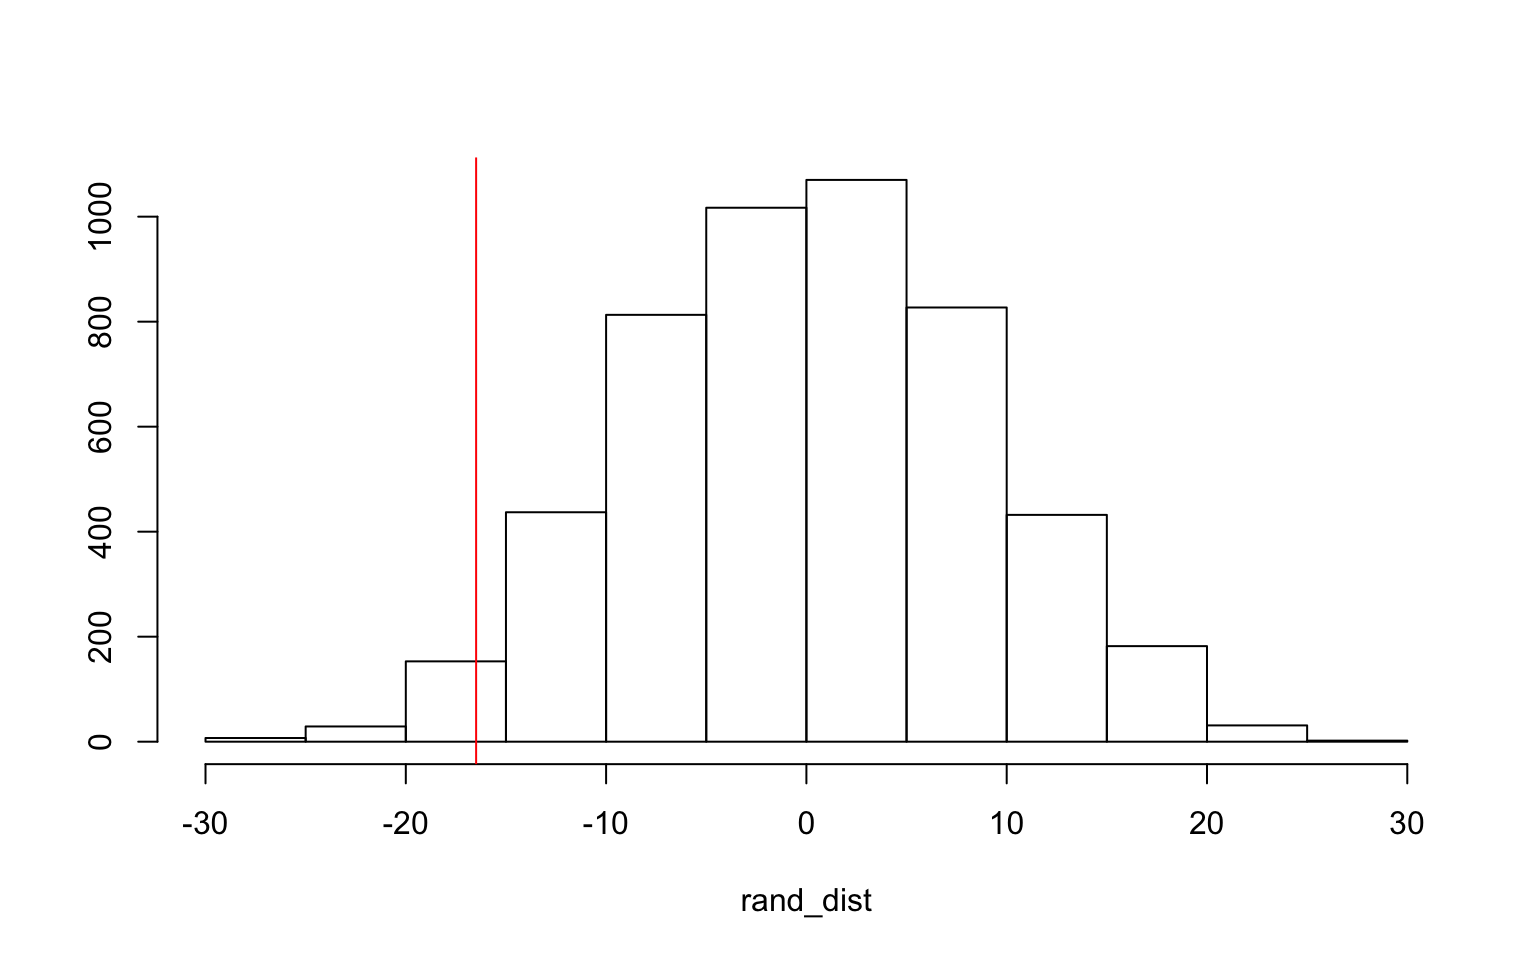
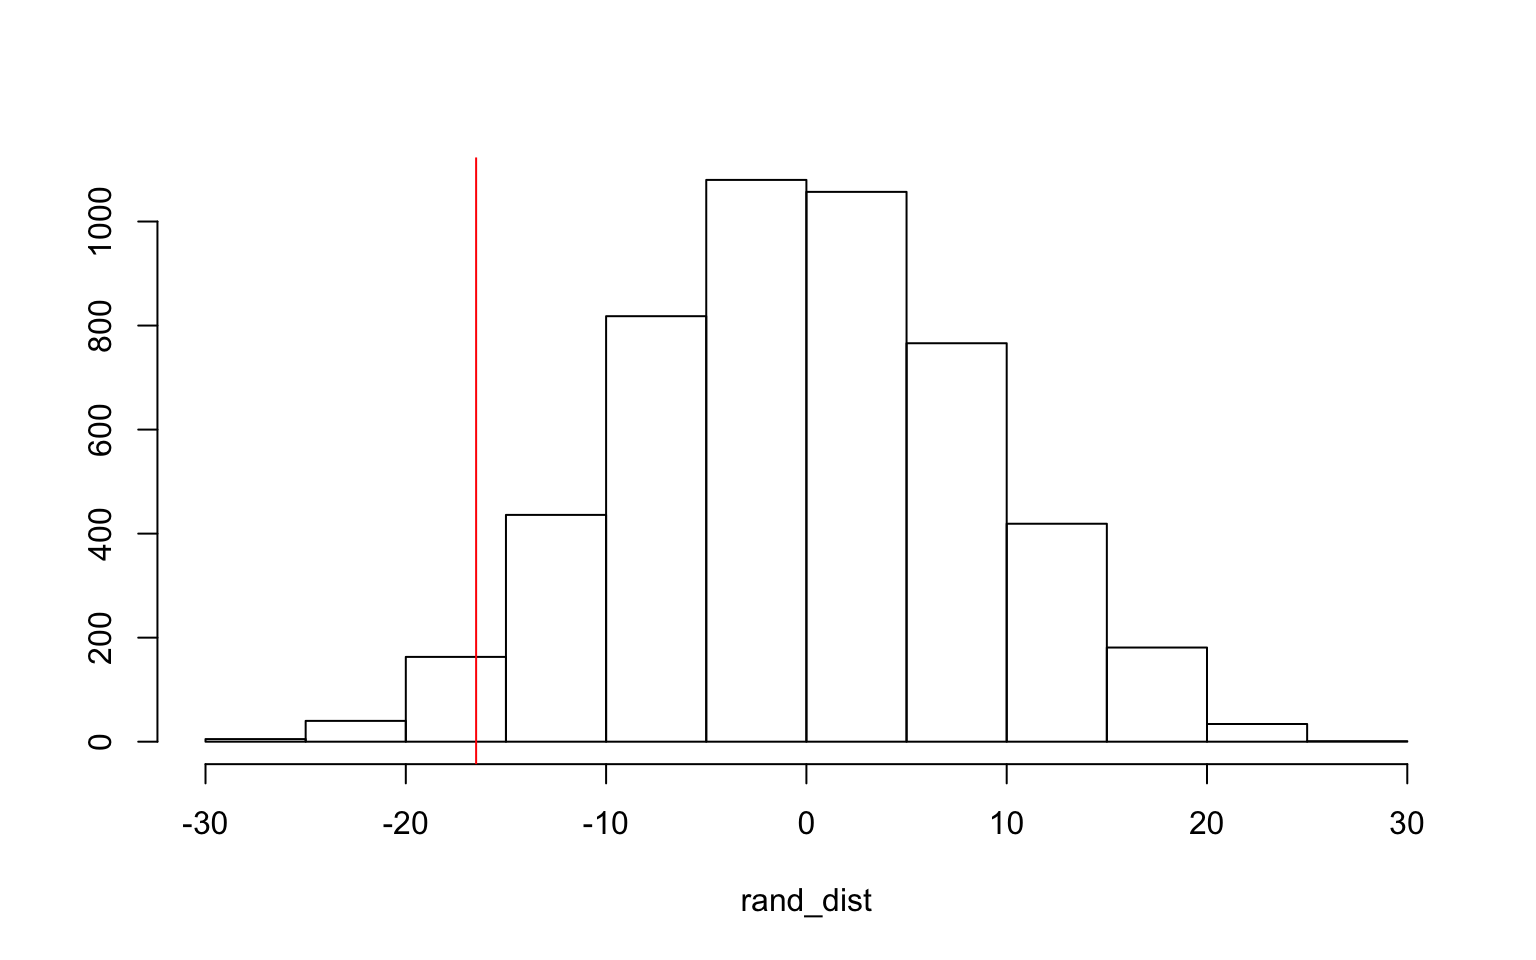
even more

diff --git a/public/project22/index.html b/public/project22/index.html
@@ -74,25 +74,7 @@
 
 <div id="section" class="section level2">
 <h2></h2>
-</div>
-<div id="modeling" class="section level1">
-<h1>Modeling</h1>
-<div id="instructions" class="section level2">
-<h2>Instructions</h2>
-<p>A knitted R Markdown document (as a PDF) and the raw R Markdown file (as .Rmd) should both be submitted to Canvas by 11:59pm on 5/1/2020. These two documents will be graded jointly, so they must be consistent (i.e., don’t change the R Markdown file without also updating the knitted document). Knit an html copy too, for later! In the .Rmd file for Project 2, you can copy the first code-chunk into your project .Rmd file to get better formatting. Notice that you can adjust the opts_chunk$set(…) above to set certain parameters if necessary to make the knitting cleaner (you can globally set the size of all plots, etc). You can copy the set-up chunk in Project2.Rmd: I have gone ahead and set a few for you (such as disabling warnings and package-loading messges when knitting)!</p>
-<p>Like before, I envision your written text forming something of a narrative structure around your code/output. All results presented must have corresponding code. Any answers/results/plots etc. given without the corresponding R code that generated the result will not be graded. Furthermore, all code contained in your final project document should work properly. Please do not include any extraneous code or code which produces error messages. (Code which produces warnings is acceptable, as long as you understand what the warnings mean).</p>
-</div>
-<div id="find-data" class="section level2">
-<h2>Find data:</h2>
-<p>Find one dataset with at least 5 variables that wish to use to build models. At least one should be categorical (with 2-5 groups) and at least two should be numeric. Ideally, one of your variables will be binary (if not, you will need to create one by discretizing a numeric, which is workable but less than ideal). You will need a minimum of 40 observations (<em>at least</em> 10 observations for every explanatory variable you have, ideally 20+ observations/variable).</p>
-<p>It is perfectly fine to use either dataset (or the merged dataset, or a subset of your variables) from Project 1. However, you could also diversify your portfolio a bit by choosing a different dataset to work with (particularly if the variables did not reveal interesting associations in Project 1). The only requirement/restriction is that you may not use data from any examples we have done in class or lab. It would be a good idea to pick more cohesive data this time around (i.e., variables that you actually thing might have a relationship you would want to test). Think more along the lines of your Biostats project.</p>
-<p>Again, you can use data from anywhere you want (see bottom for resources)! If you want a quick way to see whether a built-in (R) dataset has binary and/or character (i.e., categorical) variables, check out this list: <a href="https://vincentarelbundock.github.io/Rdatasets/datasets.html" class="uri">https://vincentarelbundock.github.io/Rdatasets/datasets.html</a>.</p>
-</div>
-<div id="guidelines-and-rubric" class="section level2">
-<h2>Guidelines and Rubric</h2>
-<ul>
-<li><strong>0. (5 pts)</strong> Introduce your dataset and each of your variables (or just your main variables if you have lots) in a paragraph. What are they measuring? How many observations?</li>
-</ul>
+<p>INTRODUCTION</p>
 <pre class="r"><code>library(tidyverse)
 library(tidyr)
 library(dplyr)
@@ -228,51 +210,51 @@ head(cric)</code></pre>
 <pre class="r"><code>head(perm1&lt;-data.frame(Leuk=cric$Leuk,
                        time=sample(cric$time)))</code></pre>
 <pre><code>##      Leuk time
-## 1 in.rate   70
-## 2 in.rate   80
-## 3 in.rate   39
-## 4 in.rate   63
-## 5 in.rate   44
-## 6 in.rate   64</code></pre>
+## 1 in.rate   56
+## 2 in.rate   63
+## 3 in.rate   22
+## 4 in.rate   53
+## 5 in.rate   36
+## 6 in.rate   33</code></pre>
 <pre class="r"><code>perm1%&gt;%group_by(Leuk)%&gt;%
   summarize(means=mean(time))%&gt;%
   summarize(`mean_diff:`=diff(means))</code></pre>
 <pre><code>## # A tibble: 1 x 1
 ##   `mean_diff:`
 ##          &lt;dbl&gt;
-## 1         12.7</code></pre>
+## 1       -0.378</code></pre>
 <pre class="r"><code>head(perm2&lt;-data.frame(Leuk=cric$Leuk,
                        time=sample(cric$time)))</code></pre>
 <pre><code>##      Leuk time
-## 1 in.rate   27
-## 2 in.rate   53
-## 3 in.rate   80
-## 4 in.rate   39
-## 5 in.rate   39
-## 6 in.rate   88</code></pre>
+## 1 in.rate   53
+## 2 in.rate   76
+## 3 in.rate   63
+## 4 in.rate   44
+## 5 in.rate   80
+## 6 in.rate   39</code></pre>
 <pre class="r"><code>perm2%&gt;%group_by(Leuk)%&gt;%
   summarize(means=mean(time))%&gt;%
   summarize(`mean_diff:`=diff(means))</code></pre>
 <pre><code>## # A tibble: 1 x 1
 ##   `mean_diff:`
 ##          &lt;dbl&gt;
-## 1         2.48</code></pre>
+## 1         15.9</code></pre>
 <pre class="r"><code>head(perm3&lt;-data.frame(Leuk=cric$Leuk,
                        time=sample(cric$time)))</code></pre>
 <pre><code>##      Leuk time
-## 1 in.rate   64
-## 2 in.rate   36
-## 3 in.rate   33
-## 4 in.rate   33
-## 5 in.rate   70
-## 6 in.rate   56</code></pre>
+## 1 in.rate   39
+## 2 in.rate   76
+## 3 in.rate   74
+## 4 in.rate   78
+## 5 in.rate   39
+## 6 in.rate   70</code></pre>
 <pre class="r"><code>perm3%&gt;%group_by(Leuk)%&gt;%
   summarize(means=mean(time))%&gt;%
   summarize(`mean_diff:`=diff(means))</code></pre>
 <pre><code>## # A tibble: 1 x 1
 ##   `mean_diff:`
 ##          &lt;dbl&gt;
-## 1         10.0</code></pre>
+## 1         4.66</code></pre>
 <pre class="r"><code>rand_dist&lt;-vector()
 
 for(i in 1:5000){
@@ -283,7 +265,7 @@ rand_dist[i]&lt;-mean(new[new$Leuk==&quot;in.rate&quot;,]$time)-
 {hist(rand_dist,main=&quot;&quot;,ylab=&quot;&quot;); abline(v = -16.48951,col=&quot;red&quot;)}</code></pre>
 <p><img src="/project22_files/figure-html/unnamed-chunk-3-2.png" width="768" style="display: block; margin: auto;" /></p>
 <pre class="r"><code>mean(rand_dist&gt;16.48951)*2</code></pre>
-<pre><code>## [1] 0.058</code></pre>
+<pre><code>## [1] 0.056</code></pre>
 <p>The null hyothesis for the randomization test performed shows there is no assiciation between in.rate and blast.rate by time (or number of blasts on a person). The alternative hypothesis for the randomization test perfomed is that there is an assosication.Based on the randomization test perfomed, We see what the distibution would look like if there was no assiciation with in.rate and blast.rate. It shows what it looks like if the null hypothesis were true. Based on the p-value (0.45) it shows we can reject the null hypothesis.The p-value from the t-test shows a value of 0.051 which shows we can’t reject the null hypothesis.</p>
 <ul>
 <li><p><strong>3. (35 pts)</strong> Build a linear regression model predicting one of your response variables from at least 2 other variables, including their interaction. Mean-center any numeric variables involved in the interaction.</p>
@@ -705,7 +687,6 @@ mean(diags)</code></pre>
 <p>After runnning LASSO, we see that per.blast and num.blastlow are the only variables retained showing that they are important for predicting percentage of absolute marrow leukemia infiltrate (Infil) in Leukemia patients given treated.After doing cross validation a value of 10.85026 was obtained. When compared to the value in part 5, we see that the value is much lower. In question 5, the value was 32.56109 compared to 10.85026 obtained.This shows a better fit. When conducting the 10-fold CV, the ACC, Sens, spec, ppv, and auc had a similar value to question 5.</p>
 <pre class="r"><code>data(package = .packages(all.available = TRUE))</code></pre>
 <p>…</p>
-</div>
 </div>
 
               <hr>

diff --git a/content/project22.html b/content/project22.html
@@ -16,25 +16,7 @@ output:
 
 <div id="section" class="section level2">
 <h2></h2>
-</div>
-<div id="modeling" class="section level1">
-<h1>Modeling</h1>
-<div id="instructions" class="section level2">
-<h2>Instructions</h2>
-<p>A knitted R Markdown document (as a PDF) and the raw R Markdown file (as .Rmd) should both be submitted to Canvas by 11:59pm on 5/1/2020. These two documents will be graded jointly, so they must be consistent (i.e., don’t change the R Markdown file without also updating the knitted document). Knit an html copy too, for later! In the .Rmd file for Project 2, you can copy the first code-chunk into your project .Rmd file to get better formatting. Notice that you can adjust the opts_chunk$set(…) above to set certain parameters if necessary to make the knitting cleaner (you can globally set the size of all plots, etc). You can copy the set-up chunk in Project2.Rmd: I have gone ahead and set a few for you (such as disabling warnings and package-loading messges when knitting)!</p>
-<p>Like before, I envision your written text forming something of a narrative structure around your code/output. All results presented must have corresponding code. Any answers/results/plots etc. given without the corresponding R code that generated the result will not be graded. Furthermore, all code contained in your final project document should work properly. Please do not include any extraneous code or code which produces error messages. (Code which produces warnings is acceptable, as long as you understand what the warnings mean).</p>
-</div>
-<div id="find-data" class="section level2">
-<h2>Find data:</h2>
-<p>Find one dataset with at least 5 variables that wish to use to build models. At least one should be categorical (with 2-5 groups) and at least two should be numeric. Ideally, one of your variables will be binary (if not, you will need to create one by discretizing a numeric, which is workable but less than ideal). You will need a minimum of 40 observations (<em>at least</em> 10 observations for every explanatory variable you have, ideally 20+ observations/variable).</p>
-<p>It is perfectly fine to use either dataset (or the merged dataset, or a subset of your variables) from Project 1. However, you could also diversify your portfolio a bit by choosing a different dataset to work with (particularly if the variables did not reveal interesting associations in Project 1). The only requirement/restriction is that you may not use data from any examples we have done in class or lab. It would be a good idea to pick more cohesive data this time around (i.e., variables that you actually thing might have a relationship you would want to test). Think more along the lines of your Biostats project.</p>
-<p>Again, you can use data from anywhere you want (see bottom for resources)! If you want a quick way to see whether a built-in (R) dataset has binary and/or character (i.e., categorical) variables, check out this list: <a href="https://vincentarelbundock.github.io/Rdatasets/datasets.html" class="uri">https://vincentarelbundock.github.io/Rdatasets/datasets.html</a>.</p>
-</div>
-<div id="guidelines-and-rubric" class="section level2">
-<h2>Guidelines and Rubric</h2>
-<ul>
-<li><strong>0. (5 pts)</strong> Introduce your dataset and each of your variables (or just your main variables if you have lots) in a paragraph. What are they measuring? How many observations?</li>
-</ul>
+<p>INTRODUCTION</p>
 <pre class="r"><code>library(tidyverse)
 library(tidyr)
 library(dplyr)
@@ -170,51 +152,51 @@ head(cric)</code></pre>
 <pre class="r"><code>head(perm1&lt;-data.frame(Leuk=cric$Leuk,
                        time=sample(cric$time)))</code></pre>
 <pre><code>##      Leuk time
-## 1 in.rate   70
-## 2 in.rate   80
-## 3 in.rate   39
-## 4 in.rate   63
-## 5 in.rate   44
-## 6 in.rate   64</code></pre>
+## 1 in.rate   56
+## 2 in.rate   63
+## 3 in.rate   22
+## 4 in.rate   53
+## 5 in.rate   36
+## 6 in.rate   33</code></pre>
 <pre class="r"><code>perm1%&gt;%group_by(Leuk)%&gt;%
   summarize(means=mean(time))%&gt;%
   summarize(`mean_diff:`=diff(means))</code></pre>
 <pre><code>## # A tibble: 1 x 1
 ##   `mean_diff:`
 ##          &lt;dbl&gt;
-## 1         12.7</code></pre>
+## 1       -0.378</code></pre>
 <pre class="r"><code>head(perm2&lt;-data.frame(Leuk=cric$Leuk,
                        time=sample(cric$time)))</code></pre>
 <pre><code>##      Leuk time
-## 1 in.rate   27
-## 2 in.rate   53
-## 3 in.rate   80
-## 4 in.rate   39
-## 5 in.rate   39
-## 6 in.rate   88</code></pre>
+## 1 in.rate   53
+## 2 in.rate   76
+## 3 in.rate   63
+## 4 in.rate   44
+## 5 in.rate   80
+## 6 in.rate   39</code></pre>
 <pre class="r"><code>perm2%&gt;%group_by(Leuk)%&gt;%
   summarize(means=mean(time))%&gt;%
   summarize(`mean_diff:`=diff(means))</code></pre>
 <pre><code>## # A tibble: 1 x 1
 ##   `mean_diff:`
 ##          &lt;dbl&gt;
-## 1         2.48</code></pre>
+## 1         15.9</code></pre>
 <pre class="r"><code>head(perm3&lt;-data.frame(Leuk=cric$Leuk,
                        time=sample(cric$time)))</code></pre>
 <pre><code>##      Leuk time
-## 1 in.rate   64
-## 2 in.rate   36
-## 3 in.rate   33
-## 4 in.rate   33
-## 5 in.rate   70
-## 6 in.rate   56</code></pre>
+## 1 in.rate   39
+## 2 in.rate   76
+## 3 in.rate   74
+## 4 in.rate   78
+## 5 in.rate   39
+## 6 in.rate   70</code></pre>
 <pre class="r"><code>perm3%&gt;%group_by(Leuk)%&gt;%
   summarize(means=mean(time))%&gt;%
   summarize(`mean_diff:`=diff(means))</code></pre>
 <pre><code>## # A tibble: 1 x 1
 ##   `mean_diff:`
 ##          &lt;dbl&gt;
-## 1         10.0</code></pre>
+## 1         4.66</code></pre>
 <pre class="r"><code>rand_dist&lt;-vector()
 
 for(i in 1:5000){
@@ -225,7 +207,7 @@ rand_dist[i]&lt;-mean(new[new$Leuk==&quot;in.rate&quot;,]$time)-
 {hist(rand_dist,main=&quot;&quot;,ylab=&quot;&quot;); abline(v = -16.48951,col=&quot;red&quot;)}</code></pre>
 <p><img src="/project22_files/figure-html/unnamed-chunk-3-2.png" width="768" style="display: block; margin: auto;" /></p>
 <pre class="r"><code>mean(rand_dist&gt;16.48951)*2</code></pre>
-<pre><code>## [1] 0.058</code></pre>
+<pre><code>## [1] 0.056</code></pre>
 <p>The null hyothesis for the randomization test performed shows there is no assiciation between in.rate and blast.rate by time (or number of blasts on a person). The alternative hypothesis for the randomization test perfomed is that there is an assosication.Based on the randomization test perfomed, We see what the distibution would look like if there was no assiciation with in.rate and blast.rate. It shows what it looks like if the null hypothesis were true. Based on the p-value (0.45) it shows we can reject the null hypothesis.The p-value from the t-test shows a value of 0.051 which shows we can’t reject the null hypothesis.</p>
 <ul>
 <li><p><strong>3. (35 pts)</strong> Build a linear regression model predicting one of your response variables from at least 2 other variables, including their interaction. Mean-center any numeric variables involved in the interaction.</p>
@@ -647,5 +629,4 @@ mean(diags)</code></pre>
 <p>After runnning LASSO, we see that per.blast and num.blastlow are the only variables retained showing that they are important for predicting percentage of absolute marrow leukemia infiltrate (Infil) in Leukemia patients given treated.After doing cross validation a value of 10.85026 was obtained. When compared to the value in part 5, we see that the value is much lower. In question 5, the value was 32.56109 compared to 10.85026 obtained.This shows a better fit. When conducting the 10-fold CV, the ACC, Sens, spec, ppv, and auc had a similar value to question 5.</p>
 <pre class="r"><code>data(package = .packages(all.available = TRUE))</code></pre>
 <p>…</p>
-</div>
 </div>
